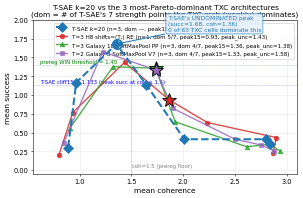
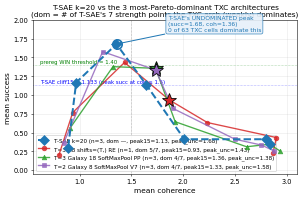
[Agent W] top3-vs-T-SAE Pareto: legend lower-left, no longer covers annotation

diff --git a/experiments/phase7_unification/case_studies/steering/plot_pareto_top3_vs_tsae.py b/experiments/phase7_unification/case_studies/steering/plot_pareto_top3_vs_tsae.py
@@ -131,7 +131,7 @@ def main():
         "(dom = # of T-SAE's 7 strength points the TXC arch (weakly) dominates)",
         fontsize=11,
     )
-    ax.legend(fontsize=8.5, loc="upper right", framealpha=0.92)
+    ax.legend(fontsize=8.5, loc="lower left", framealpha=0.92)
     ax.grid(True, alpha=0.3)
     ax.set_xlim(0.55, 3.1)
     ax.set_ylim(-0.05, 2.0)
